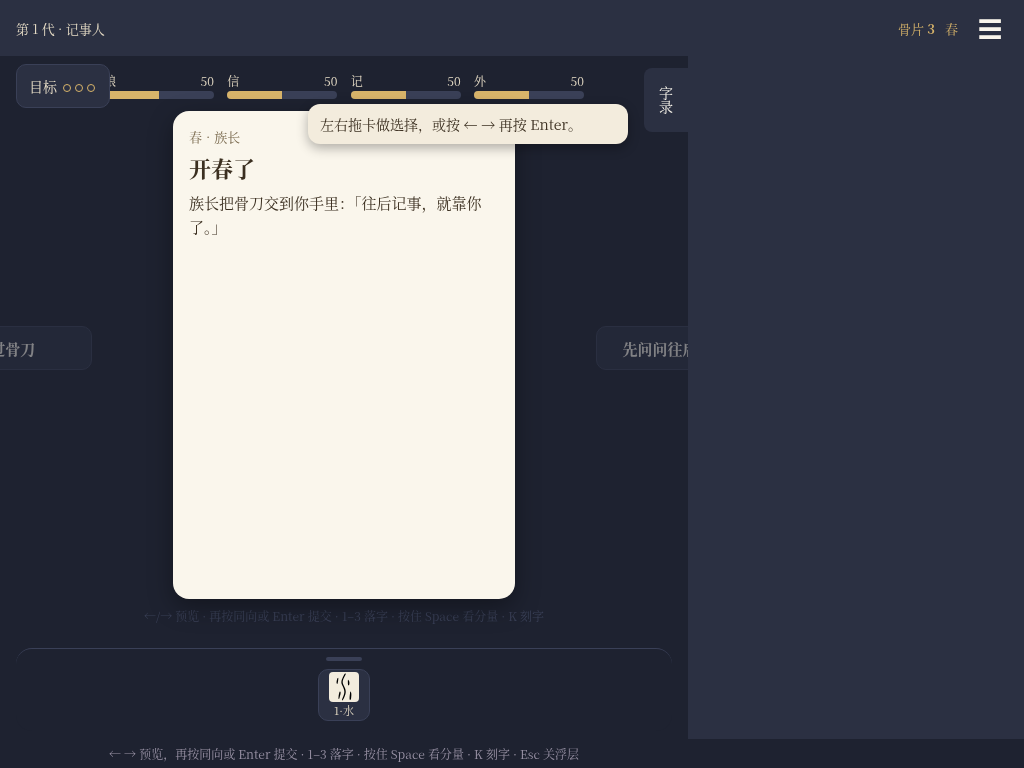
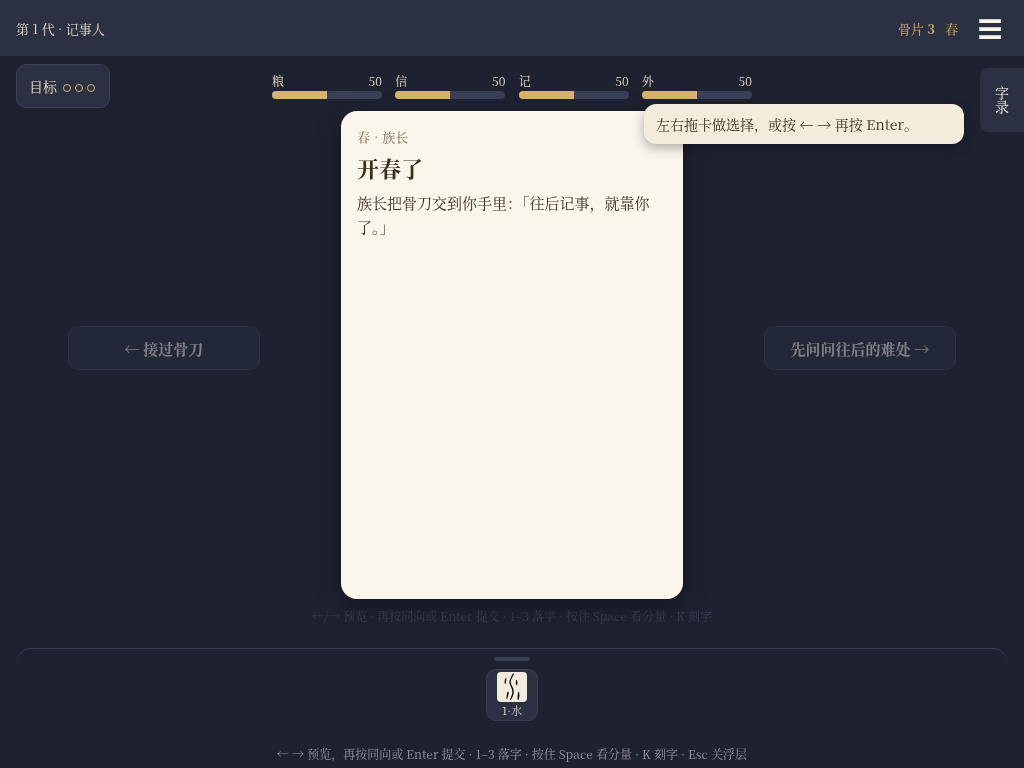
redesign step 12/13: clean-tree dist + release_shots_v2 screenshots
Build from the committed tree (VERSION=7ec28f7d7403), then capture full-page
shots at 390/768/1024/1280/1440 into release_shots_v2/.

diff --git a/REDESIGN_PROGRESS.md b/REDESIGN_PROGRESS.md
@@ -26,4 +26,6 @@
 - 10 单测完成（本步）：新增 tests/card_art.test.mjs（只发 C01–C10、先人无图、gf4-休 不上线、资产逐字节一致、无杂文件）；修 index.html 重复的 #goals-slip id。16 个单测全过。
 - 11 e2e 完成（本步）：`npm run e2e` = node:test + playwright 库（本项目只装了 playwright，无 @playwright/test）。helpers/env.mjs 干净树重建 dist + 起 serve_pages 模拟 Pages。27 个 e2e 全过：viewports（3 引擎 × 390/768/1024/1280/1440，菜单/存档/静音 D1/版权）、flow（3 引擎 1280：教学/卡面图 picture+webp/目标弹层不秒关/锁卡提示且不遮字匣/天亮了不穿透/先人无图/挑字 14 字池/多代）、手机横屏转竖屏提示、offline（3 引擎 SW 后断网）、redirects（serve_pages 308 + no-cache）、fps（chromium 4× 节流 60.0fps）。
 - 修：字形首屏不出图——重写把 loadGlyphs 的 onload 重绘限制成只在 pick/winter，导致 card 阶段字匣/字录停在文字兜底。恢复基线行为（每次字形加载都 render），e2e viewports 加断言锁死。
+- 修 2：桌面教学气泡压在四维行上、且 1280 挡住卡角骨片。按 gf3 电脑稿把桌面气泡降到卡顶（#stage+48）、并设 pointer-events:none（纯提示不可交互）；同时修收起侧栏在桌面/平板横仍占 336 宽（BREAKPOINTS 说收起只留 44 标签，改回 width:0）。e2e flow 加 B3 断言（气泡不压四维行、距侧栏 ≥16）。
+- 28 e2e + 16 单测全过。VERSION（干净树）= 见报告。
 - 下一步：12 干净树 build dist，13 release_shots_v2 截图，14 REDESIGN_REPORT.md + DONE。
